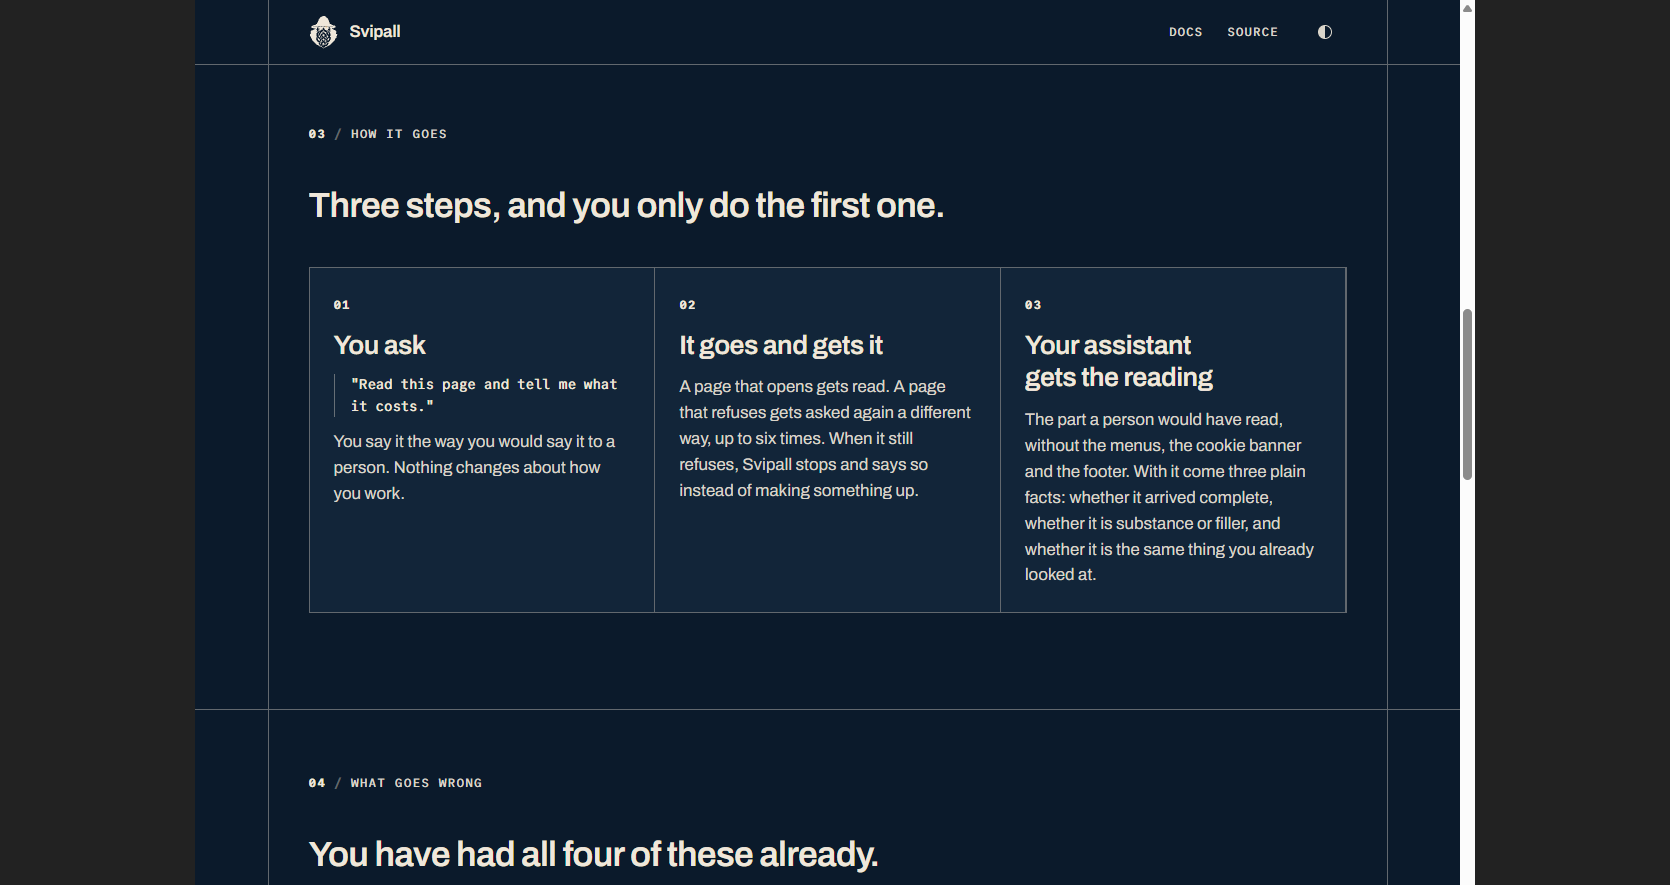
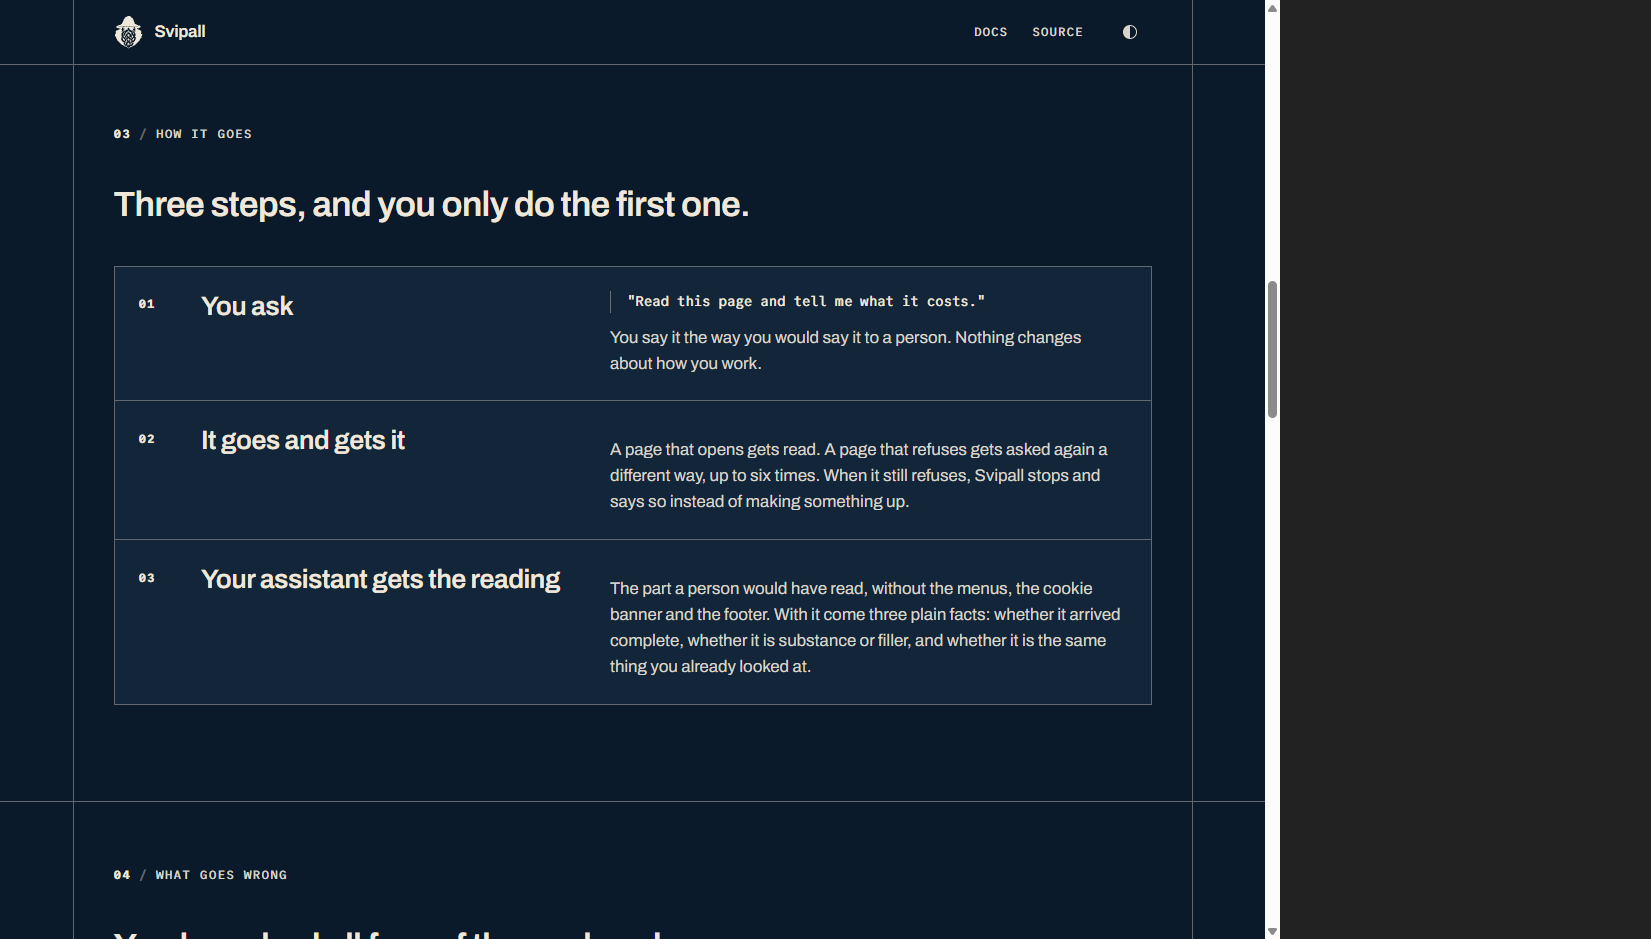
Gate 6 passes: every criterion at 4 or higher, twice running
The two criteria stuck at 3 for six rounds were filed as an author
decision. They were not. DIRECTION.md rules card grids out by name and
names the annunciator as the intended component, with the two-column
table as its fallback; the author approved that at gate 3. The build was
violating a rule, not honouring a choice.

All seven card grids are now ruled row lists. Section 2 is two separately
bordered annunciators with 16px lamps, lit-filled against unlit-hollow.

Two defects surfaced doing it: base.css caps every <li> at the reading
measure, which held full-width rows at 653px and showed the container
background as a grey block; and <wbr> offers a break without forbidding
the others, so the install URL broke mid-token in the narrower hero cell.

diff --git a/.ptah/RULES.md b/.ptah/RULES.md
@@ -1229,3 +1229,138 @@ R-G3-05   AMENDED at gate 6 - the focus ring is a third role
 The reviewer's closing note, kept because it is the honest summary: *nine of eleven
 at 4 or better; the two that remain need a decision about what three sections are,
 which is not a thing more rounds of styling can reach.*
+
+---
+
+## Gate 6 PASSES, rounds 9 and 10
+
+Two consecutive runs with every criterion at 4 or higher. Ten rounds, all scored by
+a separate reviewer holding `DIRECTION.md`, the captures and the rubric, never the
+source.
+
+| surface | criterion | run 1 | final |
+|---|---|---|---|
+| Home | Composition | 3 | **4** |
+| Home | Typography | 4 | **5** |
+| Home | Colour and contrast | 3 | **4** |
+| Home | Visual identity | 3 | **4** |
+| Home | Polish | 2 capped | **4** |
+| Docs | Composition | 3 | **4** |
+| Docs | Typography | 4 | **4** |
+| Docs | Colour and contrast | 3 | **5** |
+| Docs | Visual identity | 3 | **5** |
+| Docs | Polish | 2 capped | **4** |
+| Docs | Navigability | 4 | **5** |
+
+### What turned it, and the mistake that delayed it six rounds
+
+```
+R-G6-13   the gate that was not a gate
+  what    From round 3 the reviewer struck the same two things every time: seven
+          bordered card grids, and section 2 standing on its declared fallback.
+  error   I filed both as "the author's decision" and refused to spend them, on
+          the reasoning that they change what a section IS rather than how it
+          looks. I said so in six consecutive rounds and put them to the author.
+  wrong   They were never the author's to decide. DIRECTION.md's component list
+          says "Not built: card grid" in as many words, and D7 names the
+          annunciator as the intended component with the two-column table as its
+          FALLBACK. The author approved that direction at gate 3. The build was
+          not honouring a decision; it was VIOLATING one. Fixing it is compliance.
+  cost    Six rounds of scoring spent on a ceiling that was never there, and two
+          criteria held at 3 the whole time. The reviewer struck it seven times
+          without questioning the framing either; neither of us tested whether
+          the gate was real.
+  lesson  "This needs the author" is a claim, and a claim gets checked against the
+          ledger like any other. A rule the author already approved does not need
+          approving again to be obeyed.
+```
+
+```
+R-G6-14   what changed in round 9
+  card grids  All seven gone. Every multi-item block on the site is now a ruled
+              row list: one column, rows sharing 1px seams, label in a left
+              column and reading in a right one. Bands 03, 04 and 06 on the home;
+              all four groups on the docs index, which as a side effect can no
+              longer leave an empty slot at any item count.
+  the panels  The Panel and Lamp components were built to spec from the start.
+              What made section 2 read as "an ordinary two-column table with
+              dots" was that 10px bulbs under 12px legends are not lamps. 16px,
+              legends a step up, rows with real height, lit-filled against
+              unlit-hollow-plus-struck: form before colour, twice.
+  round 10    The two panels were still sharing one border with a rule down the
+              middle - a cell-grid instinct, and the wrong one here. D7 asked for
+              TWO annunciators, and two instruments are two objects. They sit
+              apart with ground between them now. Measured: filled runs at
+              x=114-620 and x=645-1151 with page ground in the 25px between.
+```
+
+```
+R-G6-15   two defects found while doing it
+  the <li> cap   base.css caps every <li> at the reading measure, and these rows
+                 ARE list items. Under the old N-up grids each column sat below
+                 the cap so nothing showed; across the full rail the cap held
+                 every row at 653px inside a 1036px track and the container's
+                 hairline background showed through as a grey block down three
+                 bands. The measure still applies to the text inside; it must not
+                 apply to the row that carries it.
+  the URL again  <wbr> OFFERS a break; it does not forbid the others. In the
+                 hero's narrower cell the browser preferred the hyphen inside
+                 "ilien-dev" because it filled the line better, so the same
+                 string broke two different ways on one page - correctly in band
+                 8, mid-token in the hero. Each run between two slashes is
+                 white-space: nowrap now, which leaves the <wbr>s as the only
+                 breaks available. Both blocks agree.
+  and worse      The first attempt at that fix put each segment on its own SOURCE
+                 line. Inside a <pre> those newlines are content: the URL
+                 rendered as eight indented lines and the copy button stopped
+                 yielding a URL at all. Caught by asserting the built page
+                 contains the literal string - no screenshot would have shown it,
+                 because the thing that broke was what the button copies.
+```
+
+### Three of my claims were wrong, and are recorded as wrong
+
+- **"The docs rail has no right rule; the ToC overflows to the window edge."** My
+  camera. The captures were 1159px wide showing a 1280px page, so the harness cut
+  the 121px where the rule lives. Measured at a true 1280: rail x=72→1192 with its
+  border, furthest ToC ink x=1176, `scrollWidth === clientWidth` throughout. It
+  cost the reviewer two criteria and three rounds.
+- **"An accent focus ring would break R-G3-05."** It would not. DIRECTION.md
+  assigns the accent to `--color-focus` in dark and reserves the 2px border weight
+  for the ring alone. R-G3-05 is amended to name the ring as a third role.
+- **"The sidebar is unchanged."** The search field had vanished, because
+  `astro build` wipes dist WITHOUT running pagefind and only `npm run build` does.
+  The site was right and my build command was wrong. `check-links.mjs` now fails
+  when the index is absent.
+
+And two of the reviewer's, withdrawn on re-measurement: the strip's "clipping" was
+a working mask, and "the accent does nothing across half the site" was a worse
+reading of the direction than the one that withheld it.
+
+### Named, real, and not fixed
+
+None of these changes the verdict; all three sit inside criteria already at 4. They
+are written down so the next session finds them as decisions rather than as
+oversights.
+
+1. **Bands 04 and 06 are structural twins.** The reviewer supplied the reason a
+   difference would need, and it is a good one: band 04's rows each say TWO things
+   — a fault and its answer — where band 06's say one, and that pairing is
+   currently carried by the word `INSTEAD` doing a seam's job. An internal
+   horizontal seam would make the row visibly what it already is. Not taken in
+   this session only because the gate had just passed on a stable build and the
+   two-consecutive-runs rule is measured on one.
+2. **The band foot is uniform** where the band head now varies: every band reserves
+   roughly the same trailing space regardless of what it ends on.
+3. **Three docs table heads break mid-token** — "HELD-" / "OUT RECALL" and its two
+   neighbours — the trade taken in round 8 when the alternative was a grey
+   scrollbar under one table and not its neighbour.
+```
+R-B1-15   STILL FAILING, and still the author's
+  The client strip autoplays with no visible control, no pause on hover and no
+  focus stop, at the author's explicit direction given twice. prefers-reduced-
+  motion still halts it outright. The reviewer struck it in all ten rounds and it
+  is the last remaining Home Identity deduction. It is the one item in this whole
+  ledger that cannot be fixed by obeying the direction, because obeying the
+  author and obeying the craft floor point opposite ways here.
+```

diff --git a/.ptah/DIGEST.md b/.ptah/DIGEST.md
@@ -39,18 +39,22 @@ for reading web pages that refuse to be read.
 | Gate | State |
 |---|---|
 | 1–5 interview, direction, copy, build | done |
-| 6 visual loop | eight rounds, scored by a separate reviewer. Nine of eleven criteria at 4 or better, four at 5. **Does not pass**, and cannot without an author decision — see below |
+| 6 visual loop | **PASSES.** Ten rounds, scored by a separate reviewer. Two consecutive runs with every criterion at 4 or higher; four at 5 |
 | 7 interface audit | run as part of the static check |
 | 8 parity | 0 violations, 16 suppressed with `ptah-allow`, each with its reason on the line it applies to |
 | 9 continuity | this file, `CLAUDE.md`, `.claude/settings.json`, `.github/workflows/verify.yml`, checkers vendored into `.ptah/` |
 
-**Not done, and it needs the author, not more work:** gate 6 holds at nine of
-eleven. Home Composition and Home Visual identity are both stuck at 3 for one
-reason — seven bordered card grids against a component list that says "Not built:
-card grid" — and Home Identity carries a second: section 2 stands on its declared
-fallback rather than the annunciator the direction named as its one aesthetic
-risk. Both are decisions about what a section IS. No amount of spacing reaches
-them.
+**What turned it, and the mistake worth inheriting:** for six rounds the two
+failing criteria were filed as "the author's decision" — seven card grids and
+section 2's fallback. They were never a decision. `DIRECTION.md` rules card grids
+out by name and names the annunciator as the intended component, and the author
+approved that direction at gate 3. The build was violating a rule, not honouring
+a choice. "This needs the author" is a claim, and it gets checked against the
+ledger like any other.
+
+**Three real items are named and unfixed** at the end of `RULES.md`, all inside
+criteria already at 4: bands 04 and 06 are structural twins, the band foot is
+uniform where the head now varies, and three docs table heads break mid-token.
 
 **Failing on purpose:** `R-B1-15`. The client strip autoplays with no visible
 pause, no pause on hover and no focus stop, at the author's explicit direction,
